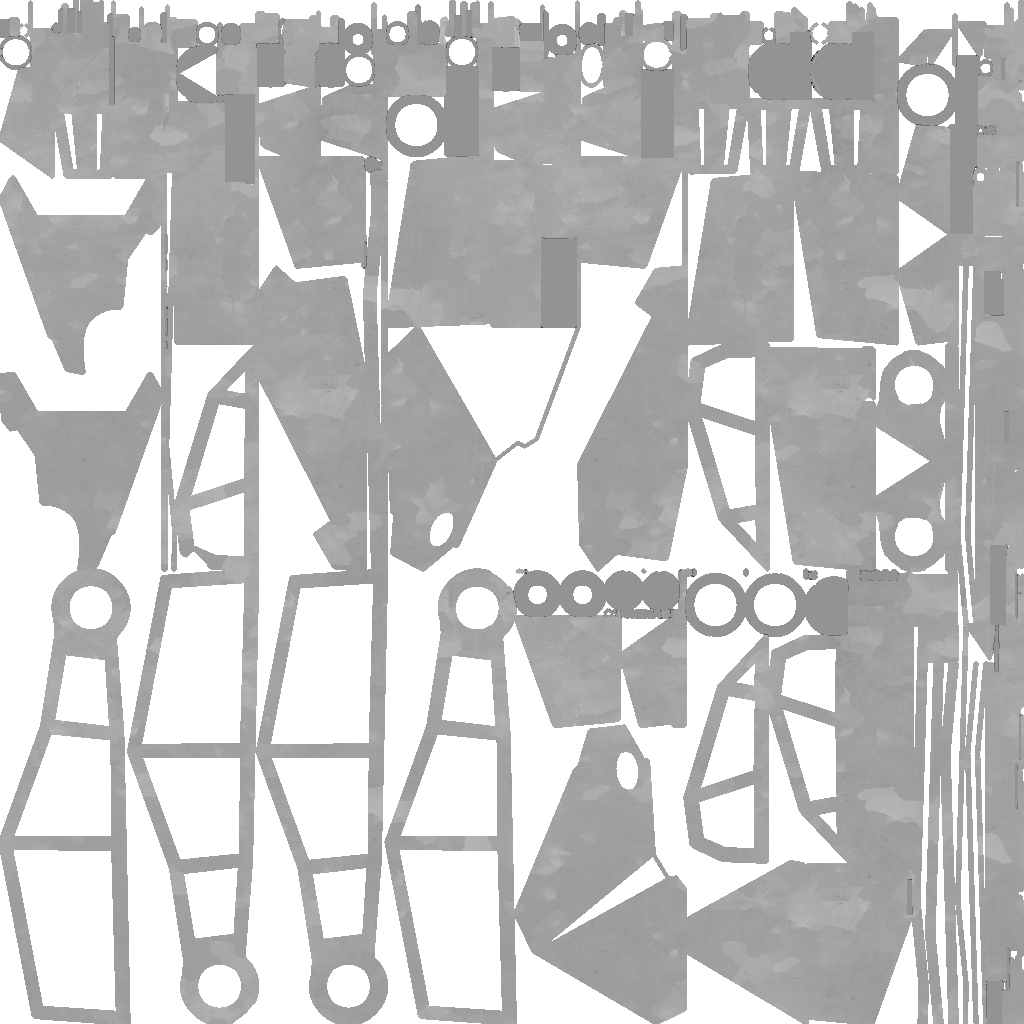
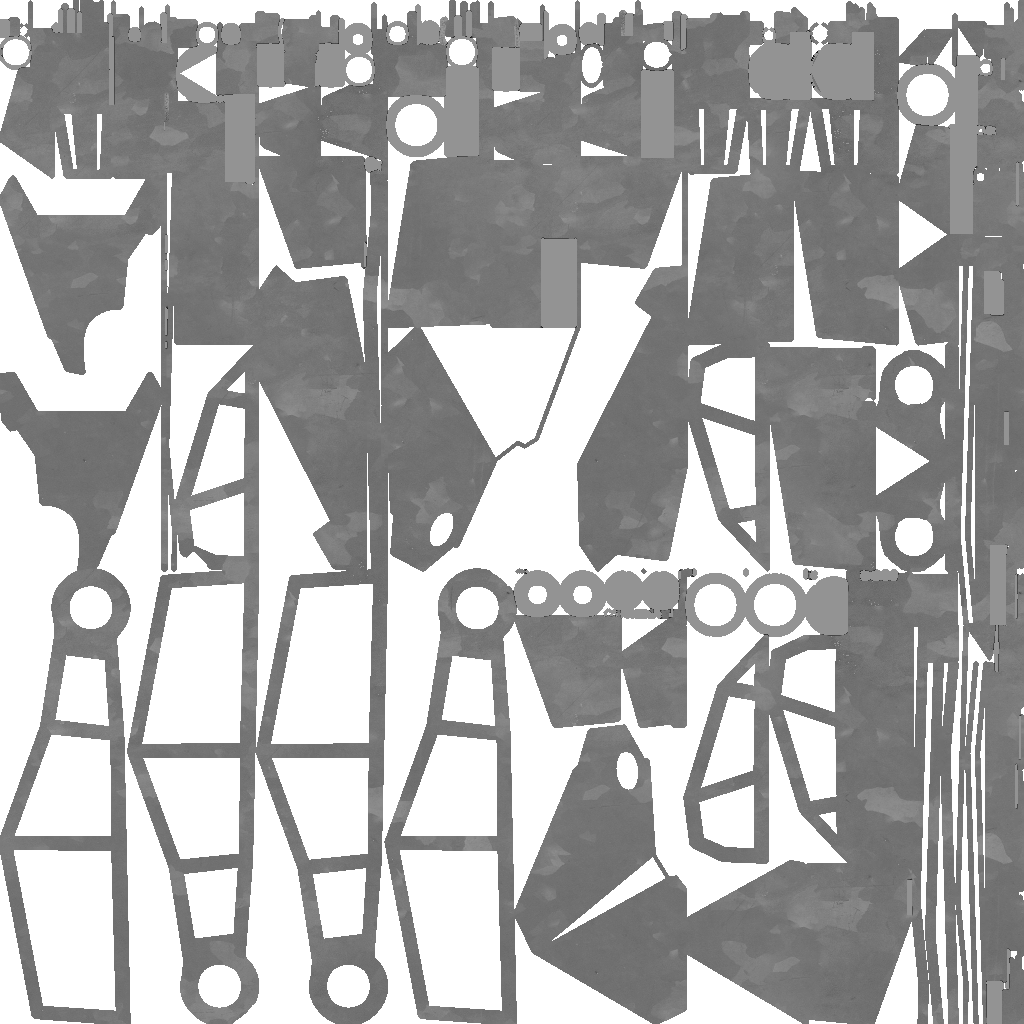
riduzione normali e amplificazione specular military

diff --git a/index3.html b/index3.html
@@ -288,7 +288,7 @@
 			var materials = [];
 
 			for(let i=0; i<6; i++){
-				var path = "model/robot/" + i + "/rust/";
+				var path = "model/robot/" + i + "/military/";
 				var normalMap = loadTexture( path + "norm.png" );
 				var diffuseMap = loadTexture( path + "diff.png" );
 				var specularMap = loadTexture( path + "mir.png" );
